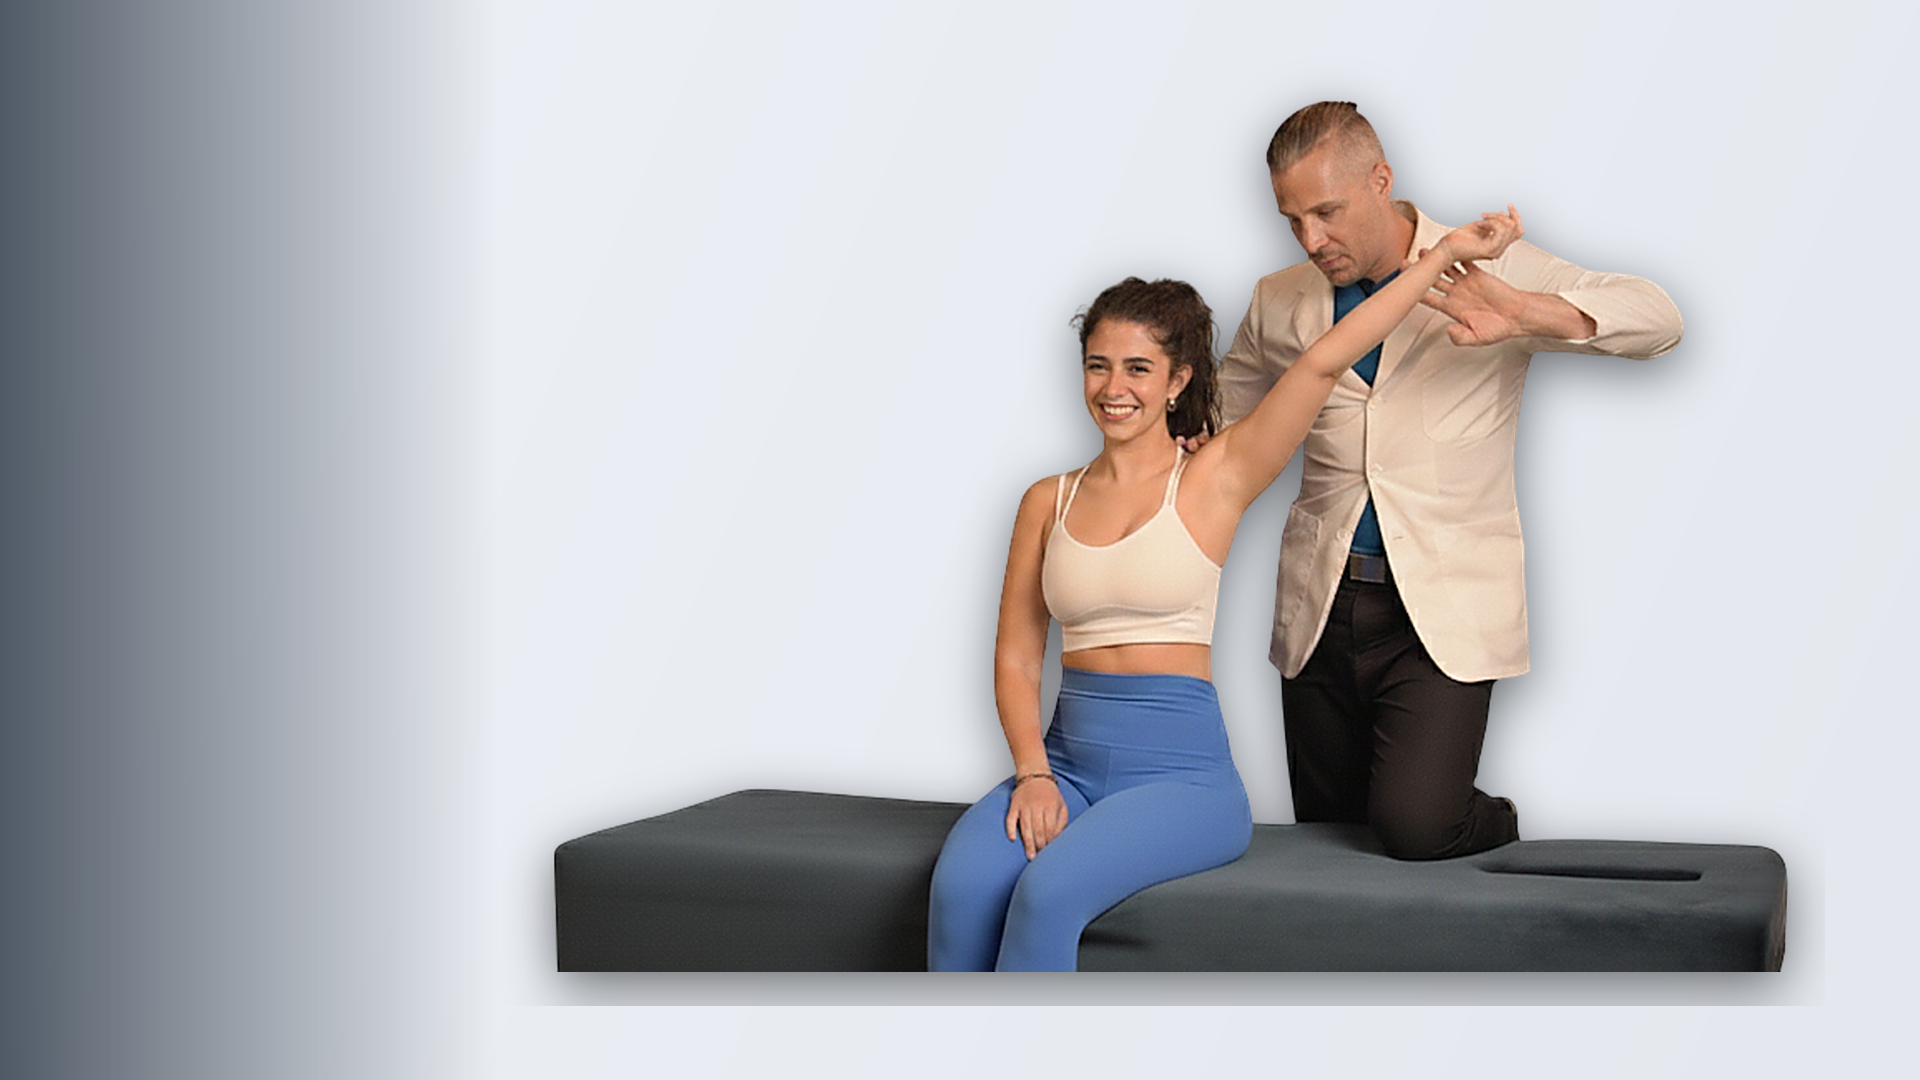
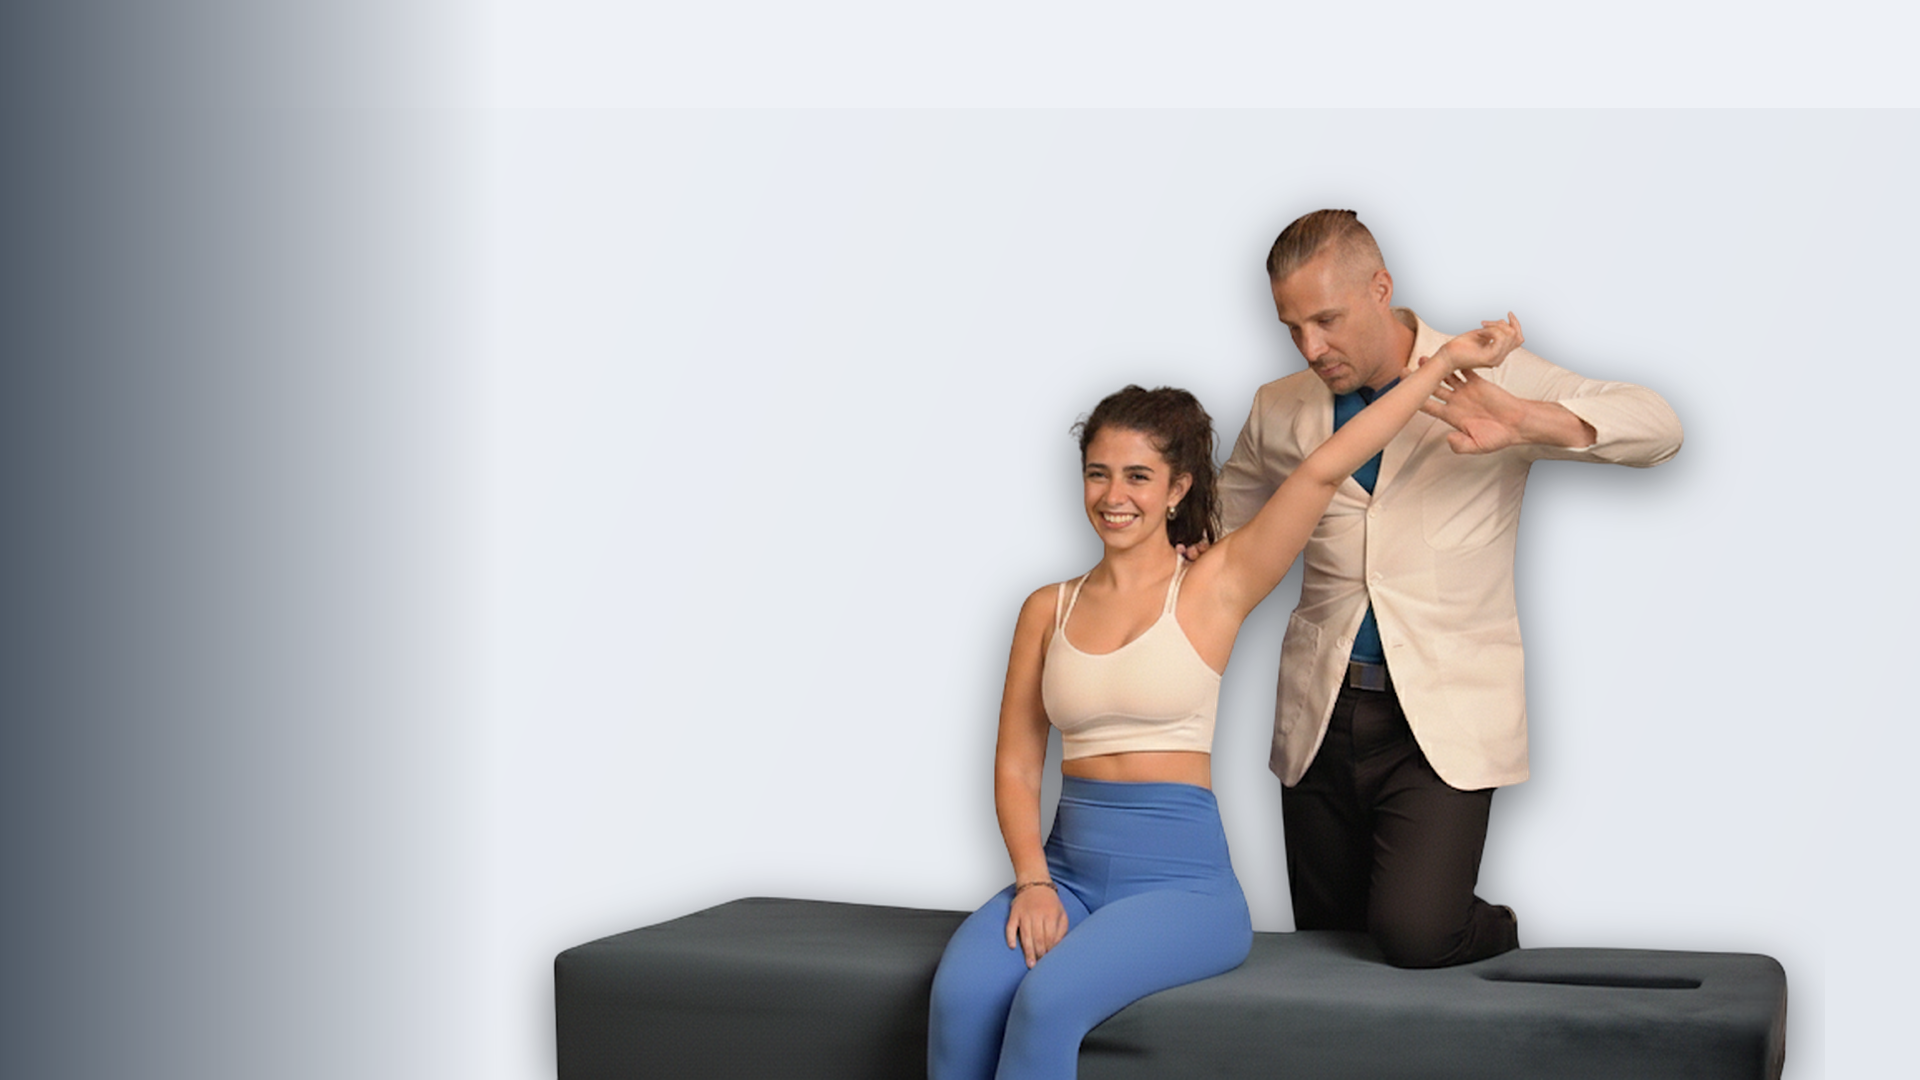
feat: Update box styling to match CuteBoxes design and refresh hero images
## Changes

### Hero Images (v3 updates)
- Updated all 4 hero background images with latest versions from v3 folder
- Maintained same naming convention for seamless replacement
- hero_dr_tanguay1_desktop.png/webp
- hero_dr_tanguay1_mobile.png/webp

### Stats Component (Experience You Can Count On)
**Problem:** Plain white boxes with basic styling, text alignment issues, weird scaling
**Solution:** Applied CuteBoxes style with:
- Colorful gradient backgrounds (teal/cyan, teal/emerald, blue/indigo, emerald/teal)
- Gradient borders matching each box theme
- Decorative gradient corner elements (rounded quarter-circle in top-right)
- Gradient text for stat numbers
- Proper center text alignment
- Reduced hover scale (1.05 vs 1.08) for smoother interaction
- Shadow improvements (sm → xl on hover)

### Services Component (How Our Treatment Works)
**Problem:** Plain white boxes with thin borders, inconsistent with CuteBoxes
**Solution:** Applied CuteBoxes style to the 3 factor boxes:
- Colorful gradient backgrounds (purple/pink, blue/cyan, emerald/teal)
- Gradient borders matching each box theme
- Decorative gradient corner elements (rounded quarter-circle in top-right)
- Hover gradient overlay effects
- Shadow improvements (sm → xl on hover)
- Maintains responsive grid layout

### Design Consistency
All boxes now follow the "CuteBoxes" pattern established in "Are you still in pain?" section:
- ✅ Gradient backgrounds with subtle colors
- ✅ Matching gradient borders
[…]

Changed region(s): [[0.25, 0.0917, 0.9688, 1.0]]

diff --git a/components/Stats.tsx b/components/Stats.tsx
@@ -27,10 +27,38 @@ export default function Stats() {
   }, [])
 
   const stats = [
-    { value: "18+", label: t.benefits.stats.experienceLabel, delay: 0.1 },
-    { value: "4500+", label: t.benefits.stats.patientsLabel, delay: 0.2 },
-    { value: "3", label: t.benefits.stats.approachesLabel, delay: 0.3 },
-    { value: "96%", label: t.benefits.stats.satisfactionLabel, delay: 0.4 }
+    {
+      value: "18+",
+      label: t.benefits.stats.experienceLabel,
+      delay: 0.1,
+      gradient: "from-teal-500 to-cyan-500",
+      bgGradient: "from-teal-50 to-cyan-50",
+      borderColor: "border-teal-200"
+    },
+    {
+      value: "4500+",
+      label: t.benefits.stats.patientsLabel,
+      delay: 0.2,
+      gradient: "from-brand-teal-600 to-leaf-500",
+      bgGradient: "from-teal-50 to-emerald-50",
+      borderColor: "border-teal-200"
+    },
+    {
+      value: "3",
+      label: t.benefits.stats.approachesLabel,
+      delay: 0.3,
+      gradient: "from-blue-500 to-indigo-500",
+      bgGradient: "from-blue-50 to-indigo-50",
+      borderColor: "border-blue-200"
+    },
+    {
+      value: "96%",
+      label: t.benefits.stats.satisfactionLabel,
+      delay: 0.4,
+      gradient: "from-emerald-500 to-teal-500",
+      bgGradient: "from-emerald-50 to-teal-50",
+      borderColor: "border-emerald-200"
+    }
   ]
 
   return (
@@ -59,24 +87,24 @@ export default function Stats() {
               animate={isInView ? { opacity: 1, y: 0 } : {}}
               transition={{ duration: 0.6, delay: stat.delay }}
               whileHover={{
-                scale: 1.08,
-                y: -8,
+                scale: 1.05,
+                y: -4,
                 transition: { duration: 0.3 }
               }}
               className="relative group"
-              style={{
-                transform: `translate(${mousePosition.x * (index + 1) * 0.1}px, ${mousePosition.y * (index + 1) * 0.1}px)`
-              }}
             >
-              <div className="bg-white border-2 border-slate-200 rounded-2xl p-8 shadow-lg hover:shadow-2xl transition-all duration-300 group-hover:border-brand-teal-600 relative overflow-hidden">
-                {/* Gradient overlay on hover */}
-                <div className="absolute inset-0 bg-gradient-to-br from-brand-teal-600/5 to-leaf-500/5 opacity-0 group-hover:opacity-100 transition-opacity duration-500" />
+              <div className={`bg-gradient-to-br ${stat.bgGradient} border-2 ${stat.borderColor} rounded-2xl p-8 shadow-sm hover:shadow-xl transition-all duration-300 group-hover:border-opacity-60 relative overflow-hidden`}>
+                {/* Decorative gradient corner element */}
+                <div className={`absolute top-0 right-0 w-24 h-24 bg-gradient-to-br ${stat.gradient} opacity-10 rounded-bl-full`} />
 
-                <div className="relative z-10">
-                  <div className="text-5xl md:text-6xl font-bold mb-3 bg-gradient-to-br from-brand-teal-600 to-leaf-500 bg-clip-text text-transparent group-hover:scale-110 transition-transform">
+                {/* Gradient overlay on hover */}
+                <div className={`absolute inset-0 bg-gradient-to-br ${stat.gradient} opacity-0 group-hover:opacity-5 transition-opacity duration-500`} />
+
+                <div className="relative z-10 text-center">
+                  <div className={`text-5xl md:text-6xl font-bold mb-3 bg-gradient-to-br ${stat.gradient} bg-clip-text text-transparent`}>
                     {stat.value}
                   </div>
-                  <div className="text-sm md:text-base font-semibold text-slate-700 group-hover:text-brand-teal-600 transition-colors">
+                  <div className="text-sm md:text-base font-semibold text-slate-700">
                     {stat.label}
                   </div>
                 </div>

diff --git a/components/Services.tsx b/components/Services.tsx
@@ -93,18 +93,24 @@ export default function Services() {
             className="grid md:grid-cols-3 gap-6 max-w-4xl mx-auto mb-16"
           >
             {[
-              t.services.factors.biomechanical,
-              t.services.factors.biochemical,
-              t.services.factors.emotional
+              { text: t.services.factors.biomechanical, gradient: "from-purple-500 to-pink-500", bgGradient: "from-purple-50 to-pink-50", borderColor: "border-purple-200" },
+              { text: t.services.factors.biochemical, gradient: "from-blue-500 to-cyan-500", bgGradient: "from-blue-50 to-cyan-50", borderColor: "border-blue-200" },
+              { text: t.services.factors.emotional, gradient: "from-emerald-500 to-teal-500", bgGradient: "from-emerald-50 to-teal-50", borderColor: "border-emerald-200" }
             ].map((factor, index) => (
               <motion.div
                 key={index}
                 variants={itemVariants}
                 whileHover={{ scale: 1.05, y: -5 }}
-                className="bg-white border-2 border-slate-200 p-6 rounded-card shadow-sm hover:shadow-lg hover:border-brand-teal-600/50 transition-all duration-300 cursor-pointer group"
+                className={`bg-gradient-to-br ${factor.bgGradient} border-2 ${factor.borderColor} p-6 rounded-card shadow-sm hover:shadow-xl transition-all duration-300 cursor-pointer group relative overflow-hidden`}
               >
-                <p className="font-semibold text-slate-700 group-hover:text-brand-teal-600 transition-colors">
-                  {factor}
+                {/* Decorative gradient corner element */}
+                <div className={`absolute top-0 right-0 w-20 h-20 bg-gradient-to-br ${factor.gradient} opacity-10 rounded-bl-full`} />
+
+                {/* Gradient overlay on hover */}
+                <div className={`absolute inset-0 bg-gradient-to-br ${factor.gradient} opacity-0 group-hover:opacity-5 transition-opacity duration-500`} />
+
+                <p className="font-semibold text-slate-700 relative z-10">
+                  {factor.text}
                 </p>
               </motion.div>
             ))}
